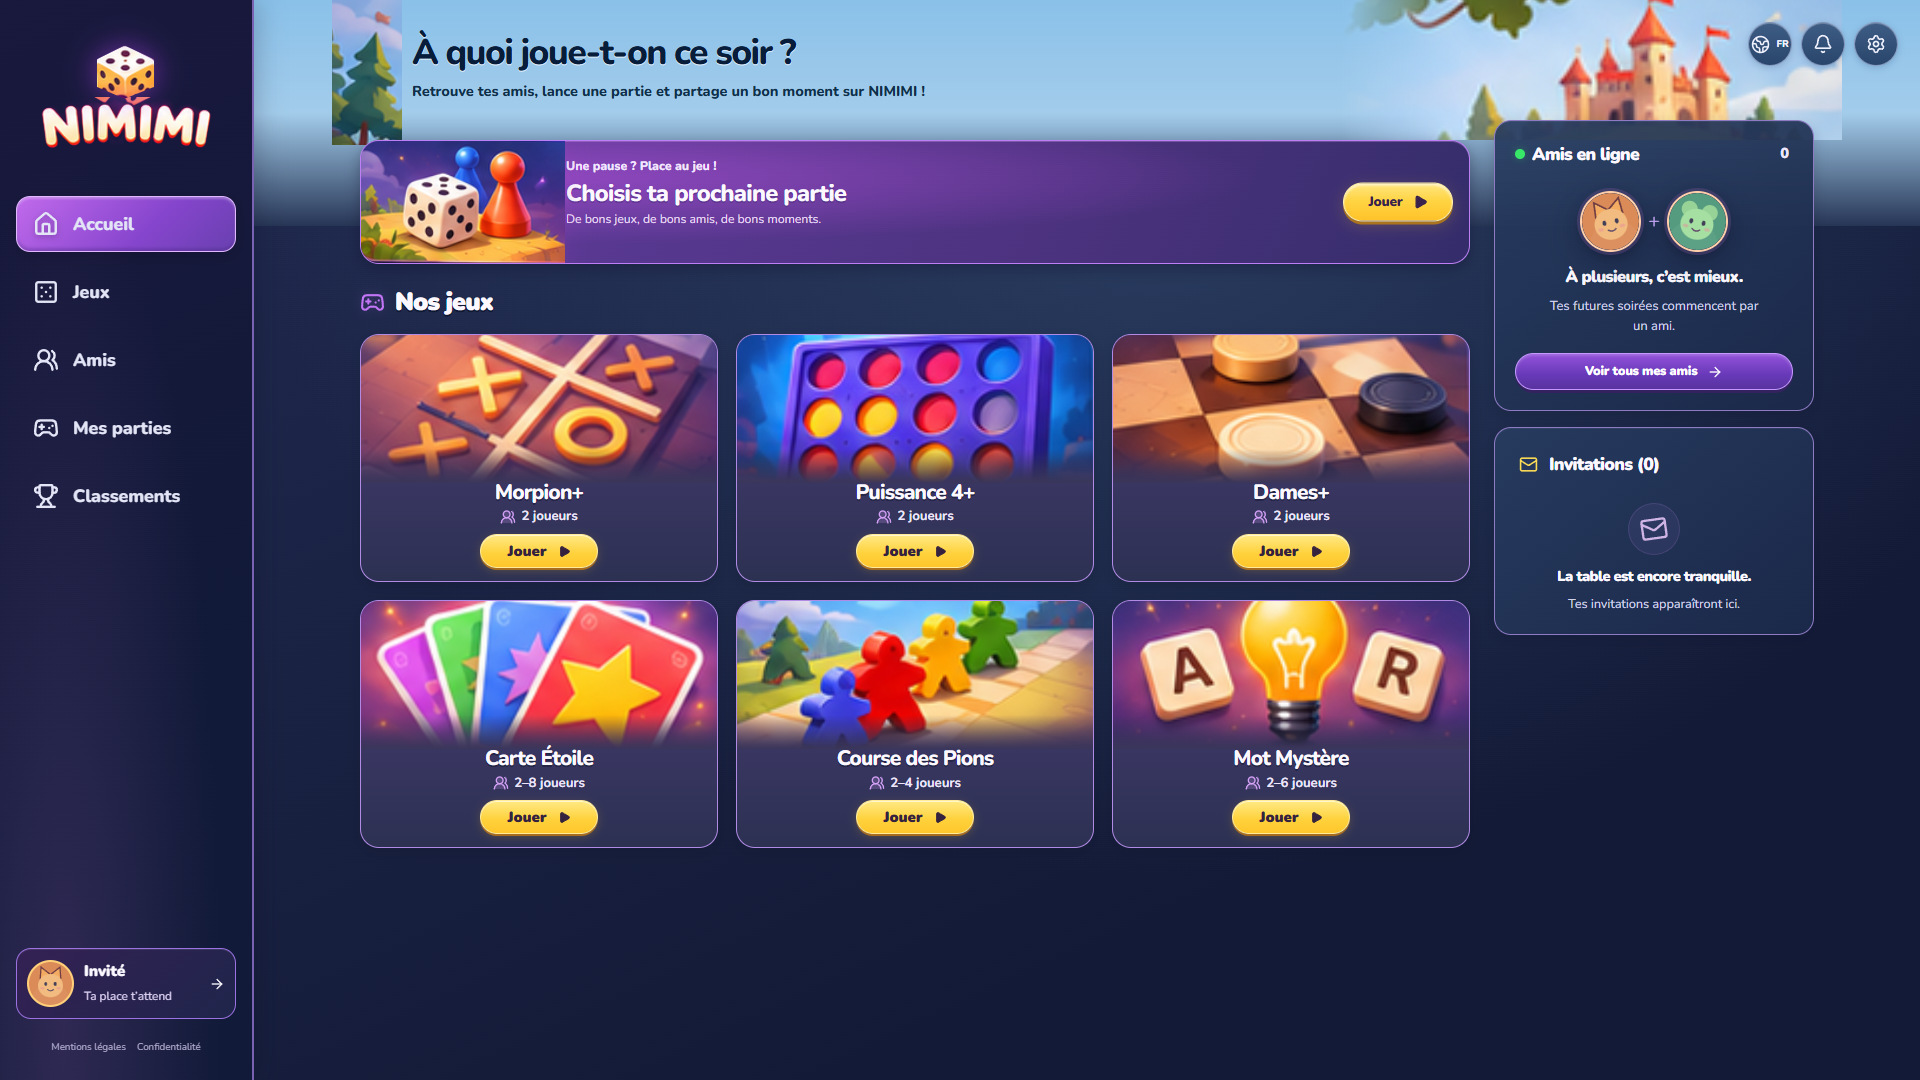
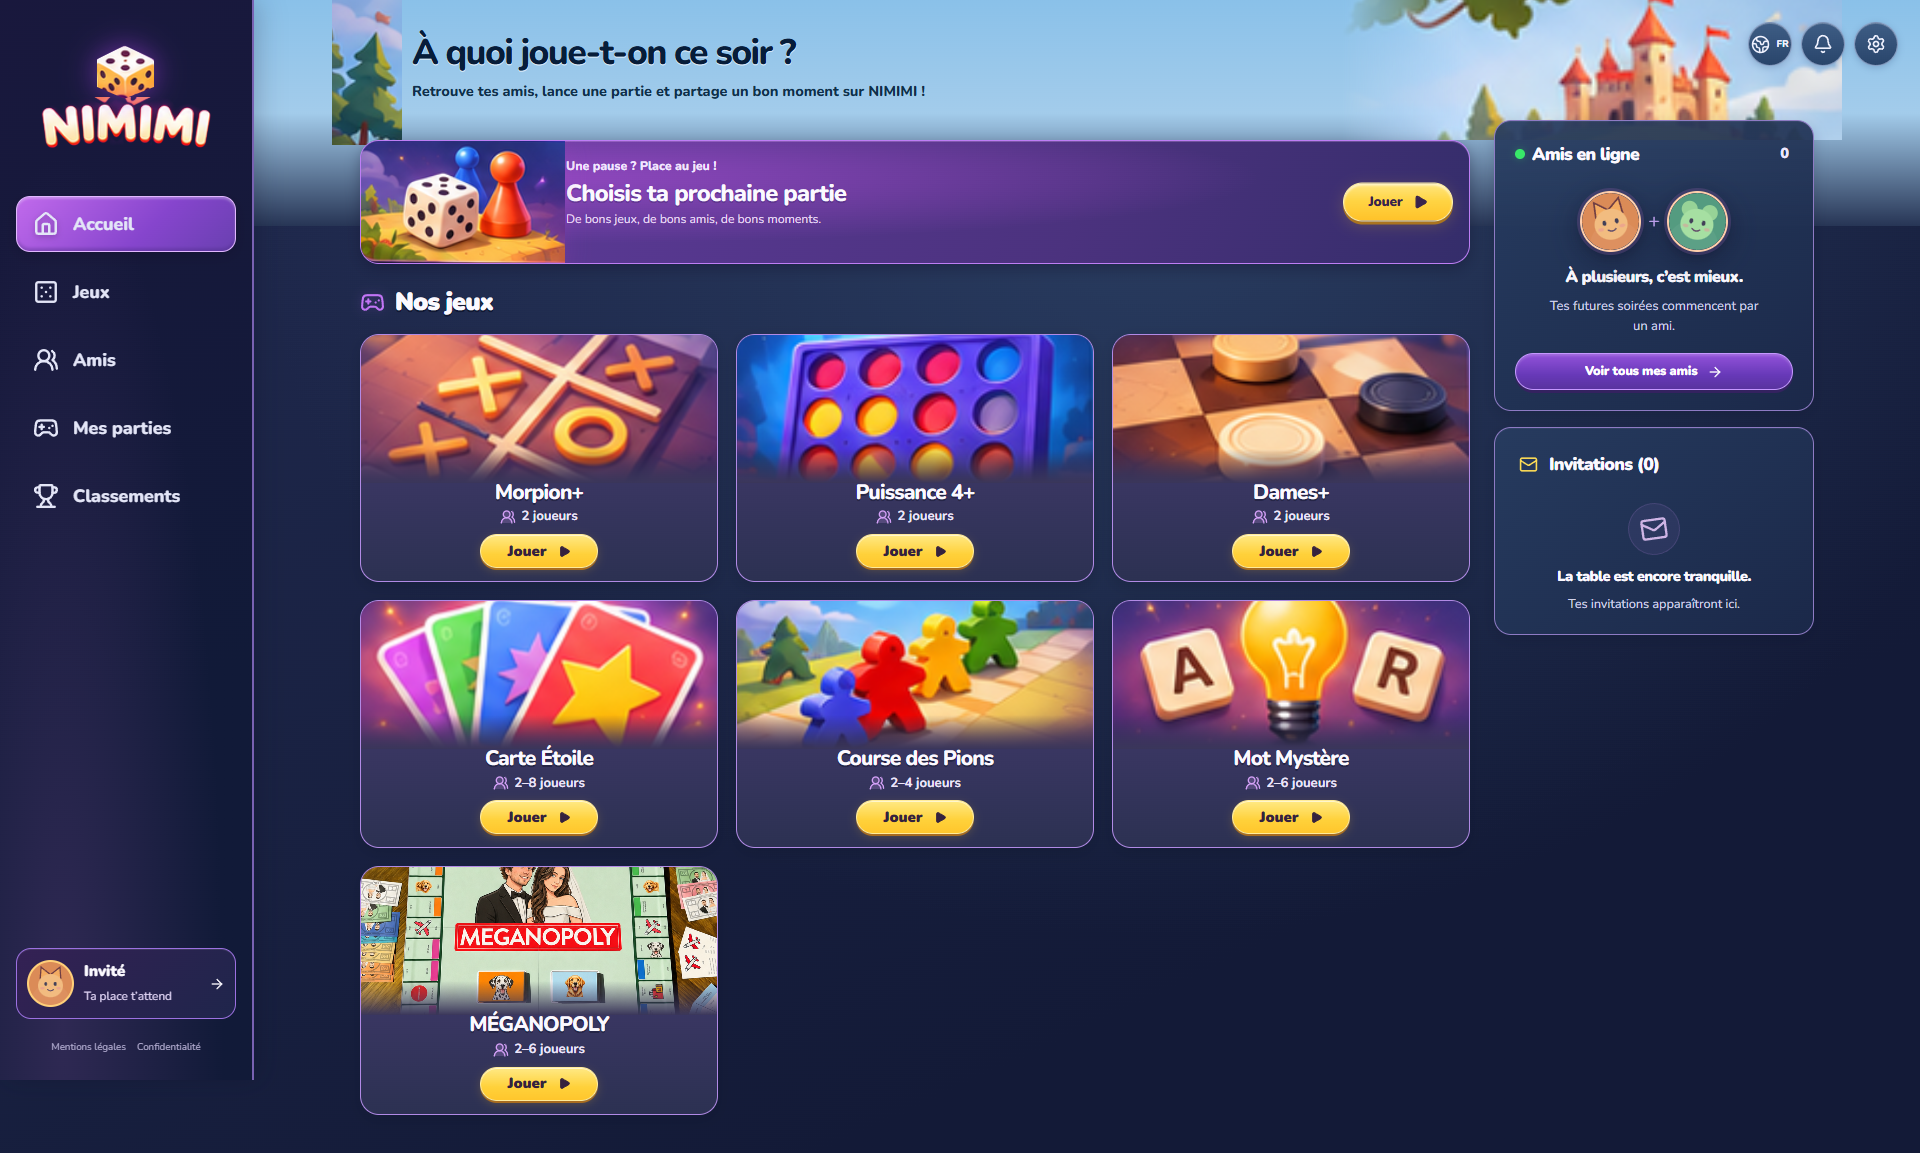
docs: publie les preuves de Meganopoly en production

diff --git a/PROGRESS.md b/PROGRESS.md
@@ -23,11 +23,11 @@ Suivi repris de `tools/PROGRESS.md`, sans considérer les acquis comme une nouve
 Branche : `autonomous-night`. Décisions : `DECISIONS.md`.
 
 - [x] Intégrer MÉGANOPOLY en français avec le plateau fourni, les cartes et les règles économiques.
-- [ ] Vérifier MÉGANOPOLY : moteur, robots, sauvegarde et parties sur ordinateur/mobile, puis publier.
+- [x] Vérifier MÉGANOPOLY : moteur, robots, sauvegarde et parties sur ordinateur/mobile, puis publier.
 
-Vérifié le 16 novembre 2026 : 107 tests Vitest, 26 parcours Playwright complets
+Vérifié le 16 novembre 2026 : 132 tests Vitest, 26 parcours Playwright complets
 et deux parcours ciblés de connexion locale/récupération après panne, 6 000 simulations. Couverture partagée : instructions
-95,41 %, branches 90,40 %, fonctions 93,71 %, lignes 96,73 %.
+96,88 %, branches 91,26 %, fonctions 97,35 %, lignes 97,75 %.
 ESLint, formatage, typage, compilation web/PWA et démarrage du serveur compilé
 avec PostgreSQL valides. Accueils 1920×1080 et 390×844 sans débordement.
 Audio activable et persistant, navigation clavier et shell hors connexion testés.
@@ -36,10 +36,15 @@ Visuels issus de la référence : comparaison des 12 cadrages, écart moyen maxi
 Commandes standard de compilation et test du serveur compilé confirmées lors de
 la reprise, avec les autorisations natives Windows. Lanceur nuit réparé et quatre
 scénarios dédiés validés. Limites documentées dans `RAPPORT_FINAL.md`.
-Publication GitHub vérifiée sur `main`, commit fonctionnel `92e71b2`.
+Publication GitHub vérifiée sur `main`, commit fonctionnel `9f7fd46`.
 Accueil et comptes en production : https://mimi-app-seven.vercel.app.
 Inscription, connexion, déconnexion, session persistante et cookies sécurisés
 vérifiés sur ordinateur et mobile ; comptes temporaires supprimés.
 Six jeux publics vérifiés avec deux comptes réels, coups légaux, reprise de session
 et robot ; preuves dans `docs/previews/production-games-check.json`. Aucun
 débordement sur les cinq formats d’accueil contrôlés. 107 tests Vitest valides.
+MÉGANOPOLY publié et vérifié en production : image originale identique par SHA-256,
+40 cases, 24 cartes, deux joueurs, échanges consentis, reprise et robot. Comptes
+temporaires supprimés. Preuves : `docs/previews/production-meganopoly-check.json`.
+132 tests Vitest, 1 000 simulations du nouveau moteur et huit parcours ciblés
+jeu/interface réussis ; zoom, contraste et absence de débordement vérifiés.

diff --git a/RAPPORT_FINAL.md b/RAPPORT_FINAL.md
@@ -16,7 +16,7 @@ Six jeux sont enregistrés, créables et jouables avec le serveur autoritaire :
 Les modifications locales antérieures sont conservées. L’historique n’a pas été
 réécrit et le dépôt FORGE parent n’a pas été modifié.
 Le code vérifié est publié sur [GitHub, branche main](https://github.com/Nic0BDX/mimi-app),
-au commit fonctionnel `92e71b2`.
+au commit fonctionnel `9f7fd46`.
 
 ## Moteurs et persistance
 
@@ -47,7 +47,7 @@ de cartes et la distribution des manches suivantes aux seuls joueurs actifs.
 ## Qualité et interface
 
 - ESLint sans avertissement, Prettier et typage des trois packages vérifiés.
-- 107 tests Vitest valides, avec une vraie base PostgreSQL isolée pour les tests serveur.
+- 132 tests Vitest valides, avec une vraie base PostgreSQL isolée pour les tests serveur.
 - 26 parcours Playwright complets valides : 13 scénarios en mobile et les mêmes en bureau,
   dont six jeux, comptes, présence multi-onglets, clavier, langue, PWA et audio.
 - Couverture du code partagé : instructions **95,41 %**, branches **90,40 %**,
@@ -218,3 +218,14 @@ Validation : 1 000 simulations terminées sans blocage (349 actions au maximum),
 tests des règles financières, des cartes et des transactions, reprise depuis
 PostgreSQL après redémarrage et parcours à deux navigateurs ou contre un robot
 sur ordinateur et mobile. Les huit parcours ciblés jeu/interface passent.
+La couverture partagée reste supérieure au seuil de 90 % : 96,88 % des instructions,
+91,26 % des branches, 97,35 % des fonctions et 97,75 % des lignes.
+
+Le contrôle public de MÉGANOPOLY confirme les 40 cases, les 24 cartes consultables,
+les dés, l’achat lorsque proposé, l’échange accepté par le destinataire, la reprise
+après rechargement et le robot. L’image téléchargée correspond au SHA-256 de
+l’original fourni. Aucune erreur JavaScript ni débordement horizontal ; les deux
+comptes temporaires sont supprimés après le contrôle.
+Preuves : [résultat](docs/previews/production-meganopoly-check.json),
+[ordinateur](docs/previews/live-meganopoly-desktop.png),
+[mobile](docs/previews/live-meganopoly-mobile.png).

diff --git a/README.md b/README.md
@@ -16,6 +16,9 @@ Le rendu d’accueil est disponible sur ordinateur et mobile. Captures réelles 
 [ordinateur](docs/previews/nimimi-desktop.png) et [mobile](docs/previews/nimimi-mobile.png).
 Les sept jeux sont disponibles : Morpion+, Puissance 4+, Dames+, Carte Étoile,
 Course des Pions, Mot Mystère et [MÉGANOPOLY](docs/MEGANOPOLY.md).
+MÉGANOPOLY en production : [ordinateur](docs/previews/live-meganopoly-desktop.png),
+[mobile](docs/previews/live-meganopoly-mobile.png),
+[contrôle réel](docs/previews/production-meganopoly-check.json).
 Aucun ami ni score fictif n’est affiché.
 Les compteurs de profil viennent de PostgreSQL. Le suivi principal est
 [PROGRESS.md](PROGRESS.md), les décisions sont dans [DECISIONS.md](DECISIONS.md).

diff --git a/tools/PROGRESS.md b/tools/PROGRESS.md
@@ -15,7 +15,7 @@ Projet actif : ce dépôt `mimi-app` uniquement ; ne jamais pousser le dépôt F
 
 Reprise du 16 novembre 2026 : le suivi principal est désormais `../PROGRESS.md`.
 Les six jeux, finitions et vérifications locales sont terminés ; le code a été
-publié sur GitHub, branche `main`, commit fonctionnel `92e71b2`.
+publié sur GitHub, branche `main`, commit fonctionnel `9f7fd46`.
 Résultats détaillés : `../RAPPORT_FINAL.md`.
 Hébergement public complet : nécessite un serveur Node persistant, PostgreSQL et SMTP.
 
